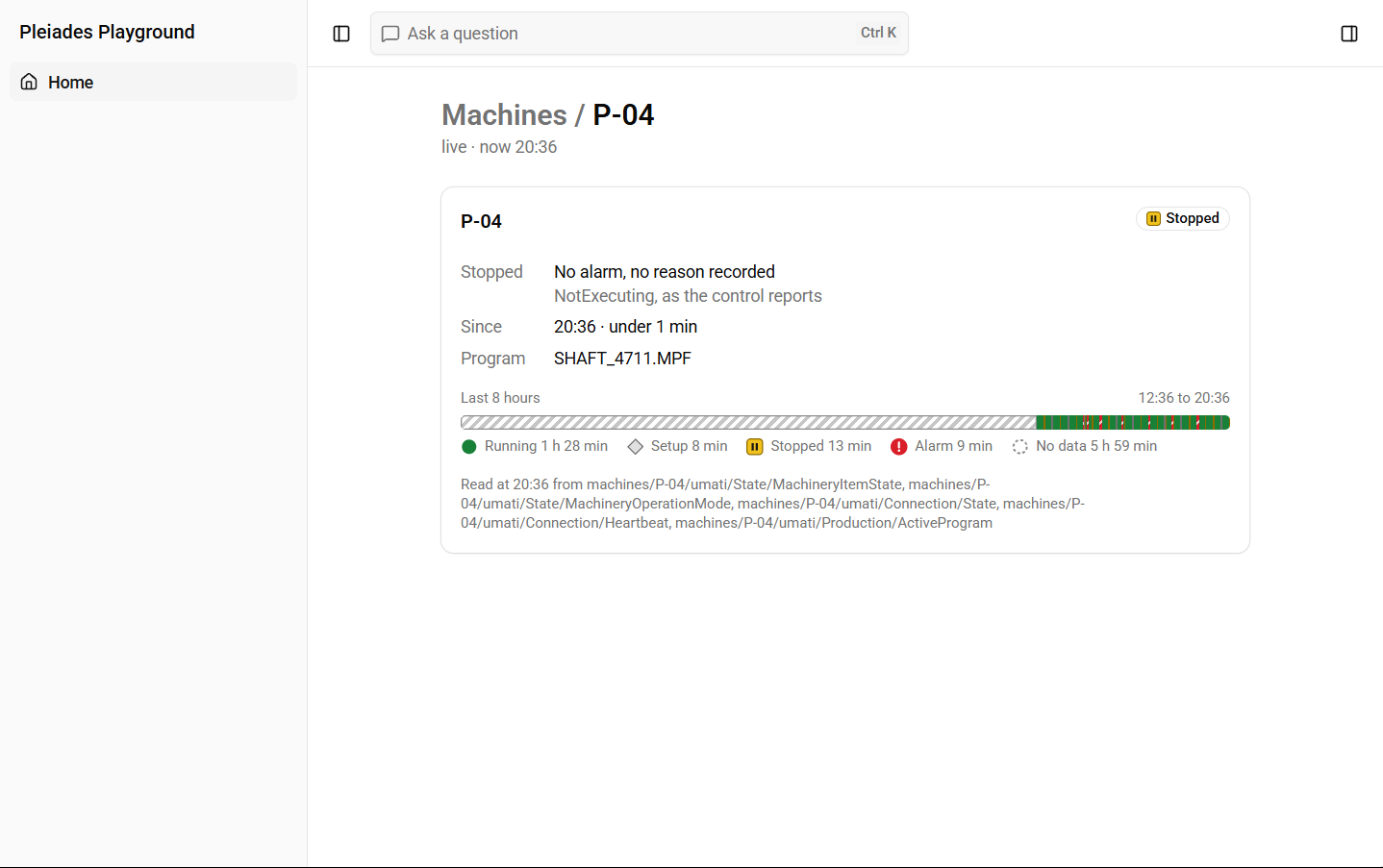
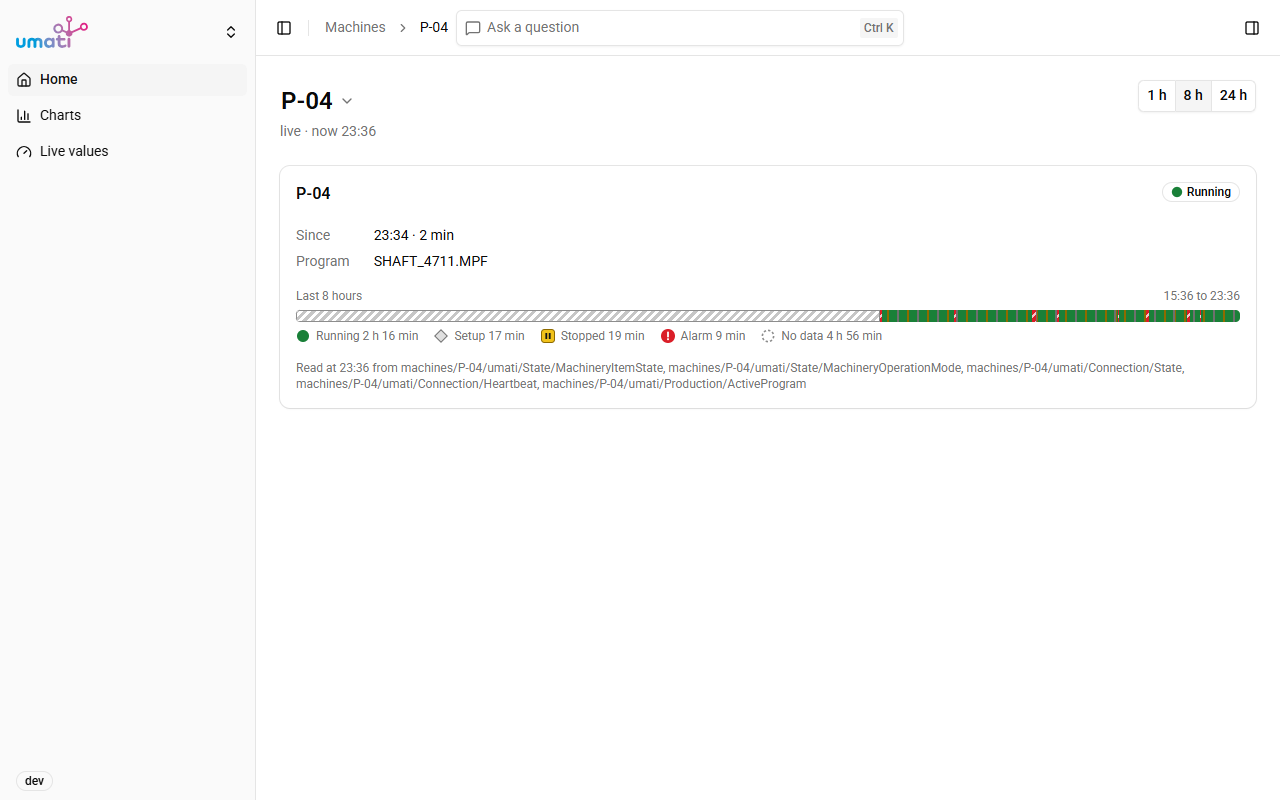
docs(tour): the page of one machine, with its switcher and hours
Stop 3 describes the switcher in the title, the hours in ?hours= and the band that moves on with the clock; the picture is retaken.

diff --git a/docs/tour.md b/docs/tour.md
@@ -105,20 +105,26 @@ live from the broker, as Home is.
 ## 3. The page of one machine
 
 A click on a machine opens its page, here <http://localhost:5600/machines/P-04>. It shows the machine card:
-what the machine does now, and what it did over the last eight hours. It needs no language model.
+what the machine does now, and what it did over the last hours. It needs no language model. The title is a
+switcher: a click on it opens the list of every machine with its state, to search by serial number or by
+state, and Enter opens the one picked. The buttons 1 h, 8 h and 24 h at the right choose how many hours the
+card goes back; the choice is in the address, `?hours=8`, and stays when you switch to another machine. The
+page is live like Home: the band keeps its length and moves on with the clock.
 
-![The page Machines / P-04 with the machine card. The card says Stopped, no alarm and no reason recorded,
-since 20:36, program SHAFT_4711.MPF. Below is a band of the last 8 hours, the total duration of each state,
-and the MQTT topics the values were read from.](images/tour/machine-page.png)
+![The page Machines / P-04. The title P-04 has an arrow for the switcher, and at the right stand the buttons 1 h,
+8 h and 24 h, with 8 h chosen. Under the title it says "live · now 23:36". The machine card says Running, since
+23:34, program SHAFT_4711.MPF. Below is a band of the last 8 hours, the total duration of each state, and the
+MQTT topics the values were read from.](images/tour/machine-page.png)
 
 The card has three parts. On top is the state with its reason, since when it holds, and the active program.
-In the middle is the band: one stripe from eight hours ago until now, coloured by state, and below it the
-total of each state. The hatched part of this band is "No data": the stack of the picture had been running
-for about two hours, and before that nobody published. At the bottom the card names the topics it read, so
-every value can be traced to the broker.
+In the middle is the band: one stripe from the chosen number of hours ago until now, coloured by state, and
+below it the total of each state. The hatched part of this band is "No data": the stack of the picture had been
+running for about three hours, and before that nobody published. At the bottom the card names the topics it
+read, so every value can be traced to the broker.
 
 **In the code:** [`apps/app/src/routes/machines.$machine.tsx`](../apps/app/src/routes/machines.%24machine.tsx)
-is the page. The card is
+is the page, and the choice of the hours and the list of the switcher are in
+[`apps/app/src/machines/switcher.ts`](../apps/app/src/machines/switcher.ts). The card is
 [`packages/cards/src/machine/machine-card.tsx`](../packages/cards/src/machine/machine-card.tsx), its band
 [`state-band.tsx`](../packages/cards/src/machine/state-band.tsx), and the shape of its values the contract in
 [`contract.ts`](../packages/cards/src/machine/contract.ts). The tool `genui_machine_show` returns the values
